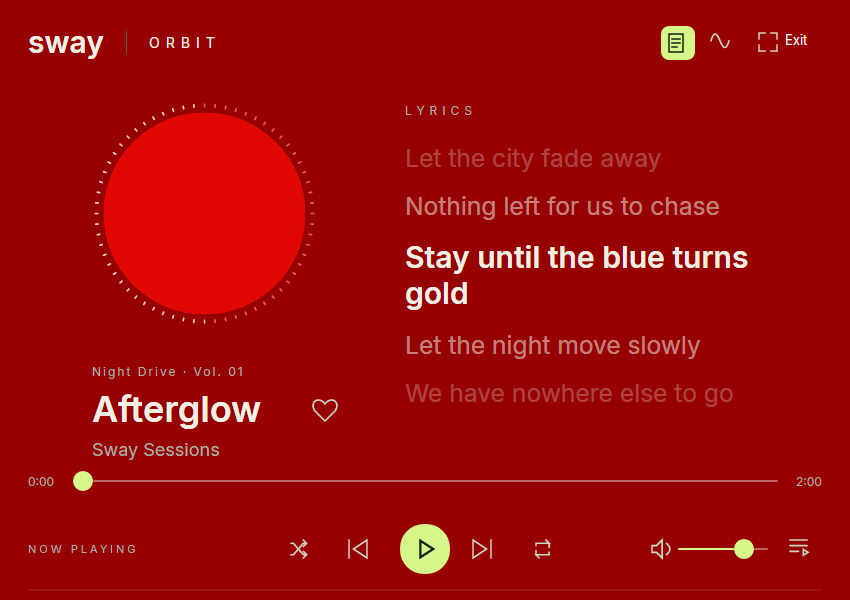
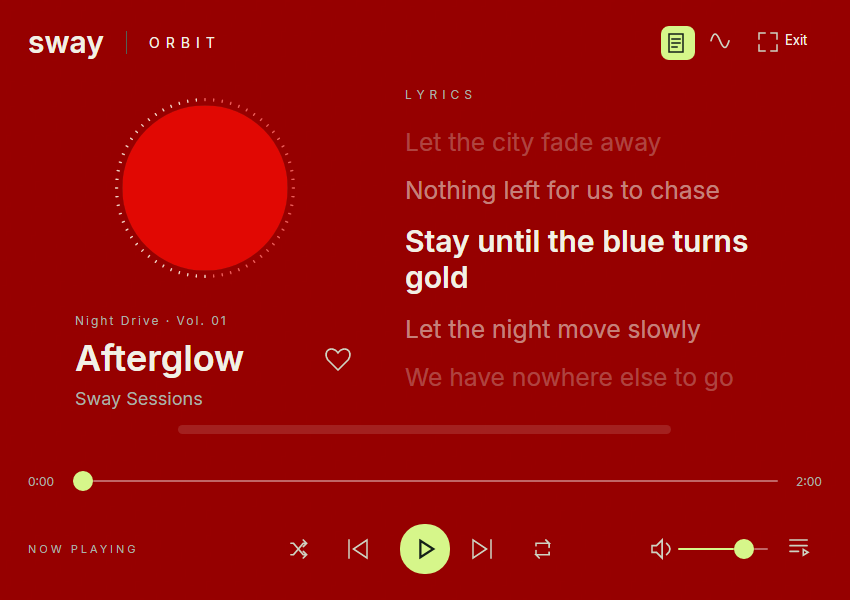
orbit bar

diff --git a/src/SwayMusic.Desktop/OrbitView.axaml.cs b/src/SwayMusic.Desktop/OrbitView.axaml.cs
@@ -95,15 +95,16 @@ public partial class OrbitView : UserControl
         double width = Bounds.Width > 0 ? Bounds.Width : host?.ClientSize.Width ?? 1280;
         double height = Bounds.Height > 0 ? Bounds.Height : host?.ClientSize.Height ?? 800;
         Grid.SetColumnSpan(DiscColumn, _model.OrbitShowLyrics ? 1 : 2);
-        double disc = Math.Clamp(Math.Min(width * (_model.OrbitShowLyrics ? 0.35 : 0.7), (height - 270) * 0.85), 180, 520);
-        OrbitDisc.Width = disc; OrbitDisc.Height = disc; DiscColumn.Width = disc;
+        double disc = Math.Clamp(Math.Min(width * (_model.OrbitShowLyrics ? 0.35 : 0.7), (height - 330) * 0.85), 180, 520);
+        OrbitDisc.Width = disc; OrbitDisc.Height = disc;
+        DiscColumn.Width = Math.Max(disc, Math.Min(340, width * 0.36));
         OrbitMetadata.Margin = new Thickness(disc * 0.1, 8, 0, 0);
         double font = Math.Clamp(height * 0.041, 24, 40);
         foreach (var line in new[] { LyricBefore2, LyricBefore, LyricAfter, LyricAfter2 }) line.FontSize = font;
         LyricNow.FontSize = font * 1.22;
         PlainLyricsScroll.MaxHeight = Math.Max(100, height - 280);
         OrbitLayout.Margin = new Thickness(width < 1000 ? 28 : 48, 24, width < 1000 ? 28 : 48, 26);
-        OrbitAmbientProgress.Margin = new Thickness(width < 1000 ? 28 : 48, 0, width < 1000 ? 28 : 48, 9);
+        OrbitAmbientProgressHost.Width = Math.Clamp(width * 0.58, 240, 840);
         OrbitScene.ColumnSpacing = width < 1000 ? 24 : 44;
     }
     internal void HideControlsIfIdle()

diff --git a/docs/orbit.md b/docs/orbit.md
@@ -10,6 +10,6 @@ Synced LRCLIB lyrics show the current line with two surrounding lines on each si
 
 Play/pause, previous/next, shuffle, repeat, volume, seek and queue controls operate the same session. The heart targets the playing song, independently of a selected library row. Controls fade after four idle seconds during playback and reappear with pointer/keyboard interaction. Keyboard focus and the open queue keep controls accessible.
 
-Track information and lyrics use slightly larger typography for viewing from a second screen. A muted, two-pixel song progress line remains along the lower edge when the controls fade. It has no thumb or time labels and smoothly follows playback and seeking; the regular seek control remains available on interaction.
+Track information and lyrics use slightly larger typography for viewing from a second screen. A short, centered nine-pixel song progress bar sits above the transport area and remains when controls fade. Both its track and played portion have crisp edges with no blur. It has no thumb or time labels and smoothly follows playback and seeking; the regular seek control remains available on interaction.
 
 Verification includes PCM transparency/frequency/silence fixtures, muted native decoder/output checks, single-window Orbit entry/exit/fullscreen/minimize/restore, lyric rewind/seek, queue and current-song likes, responsive layout, centered glyph coordinates, saturated-red blur fixtures and actual public red-cover rendering. The Win32 smoke test checks that Orbit retains MainWindow's native handle and that exit preserves playback. Preview captures use isolated original sample lyrics and fixture/public cover imagery; they do not modify account data.
